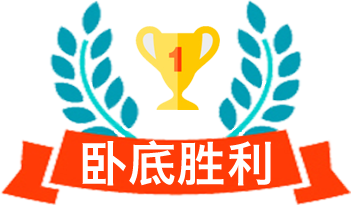
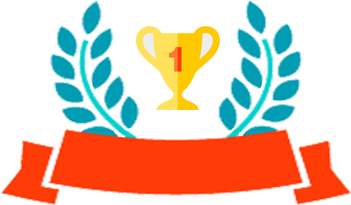
hello

Changed region(s): [[0.2279, 0.6732, 0.7692, 0.9073]]

diff --git a/js-task4/js/main.js b/js-task4/js/main.js
@@ -47,33 +47,6 @@ $(document).ready(function () {
 });
 
 
-///////////////////////////////////////////////////////法官日志页jQuery ////////////////////////////////////////////////
-
-$(document).ready(function () {
-    var arr2 = JSON.parse(localStorage.getItem("user"));     //取出数据
-    for (var i = 0; i < arr2.length; i++) {
-        $(".identity").append("<div class=\"identity-main\">\n" +
-            "<div class=\"card\">\n" +
-            "<div class=\"farmer\">"+ arr2[i] +"</div>\n" +
-            "<div class=\"number\">" + (i + 1) + "号</div>\n" +
-            "</div>\n" +
-            "<div class=\"killKnife\"><img src=\"../picture/knife.png\"></div>\n" +
-            "</div>");
-            // .append("<div class=\"card\">\n" +
-            //     "<div class=\"farmer\">" + arr2[i] +
-            //     "</div>\n" + "<div class=\"number\">" + (i + 1) + "号</div>\n" + "</div>");
-    }
-
-});
-$(document).ready(function () {
-    $("#judge-seeing").click(function () {
-        location.href = 'player-ratio.html';
-    });
-    $("#begin").click(function () {
-        location.href = 'judge-diary.html';
-    })
-});
-
 /////////////////////////////////////////////////////玩家配比页面原生js/////////////////////////////////////////////////
 
 //获取 input 值
@@ -90,6 +63,7 @@ document.getElementById("setPlayer").onclick = function () {
     }
 };
 document.getElementsByClassName("bottom_btn")[0].onclick = function () {
+    var li = document.getElementsByTagName("li");
     var num = valueNumber.value;
     var write1 = document.getElementById("write1").value;       //选择水民词组输入框
     var write2 = document.getElementById("write2").value;       //选择杀手词组输入框
@@ -100,8 +74,8 @@ document.getElementsByClassName("bottom_btn")[0].onclick = function () {
     var hello = document.getElementById("player").innerHTML;
     if (isNaN(num) || num < 6 || num > 18) {
         alert("请输入6-18的数字");                                     //验证数字
-    } else if (hello == false) {     //使用 布尔值 判断 是否有内容
-        alert("请设置玩家数量");
+    } else if (hello == false || num != li.length ) {     //使用 布尔值 判断 是否有内容
+        alert("请点击设置玩家数量");
     } else {
         location.href = 'turnover.html';//跳转
     }
@@ -247,6 +221,7 @@ function setPlayer() {
     localStorage.setItem('arr4',JSON.stringify(arr4));//用来保存被杀死玩家
     var arr7 = [];
     localStorage.setItem('arr7',JSON.stringify(arr7)); //用来保存被投死玩家
+    sessionStorage.setItem('x',1234)
 }
 
 

diff --git a/js-task4/js/judge-seeing.js b/js-task4/js/judge-seeing.js
@@ -1,0 +1,41 @@
+
+///////////////////////////////////////////////////////法官日志页jQuery ////////////////////////////////////////////////
+
+$(document).ready(function () {
+    var arr2 = JSON.parse(localStorage.getItem("user"));     //取出数据
+    for (var i = 0; i < arr2.length; i++) {
+        $(".identity").append("<div class=\"identity-main\">\n" +
+            "<div class=\"card\">\n" +
+            "<div class=\"farmer\">"+ arr2[i] +"</div>\n" +
+            "<div class=\"number\">" + (i + 1) + "号</div>\n" +
+            "</div>\n" +
+            "<div class=\"killKnife\"><img src=\"../picture/knife.png\"></div>\n" +
+            "</div>");
+        // .append("<div class=\"card\">\n" +
+        //     "<div class=\"farmer\">" + arr2[i] +
+        //     "</div>\n" + "<div class=\"number\">" + (i + 1) + "号</div>\n" + "</div>");
+    }
+
+});
+$(document).ready(function () {
+    $("#judge-seeing").click(function () {
+        location.href = 'player-ratio.html';
+    });
+    $("#begin").click(function () {
+        location.href = 'judge-diary.html';
+    });
+
+    var died2 = localStorage.getItem('died2');                //使用变量保存在localStorage中的死亡状态 Died
+    var arr3 = JSON.parse(localStorage.getItem('arr3'));//保存杀人步骤死亡玩家，避免加载页面时从新清空保存在localStorage里的数组
+    if(died2 === 'died'){
+        for(var i=0;i<arr3.length;i++){
+            $( $('.card')[arr3[i]])
+                .addClass('b')      //如果玩家状态为 died 玩家改变玩家颜色
+                .off('click')       //移除被杀玩家点击事件
+                .next().off('click')
+        }
+    }
+    if(died2 === 'died'){
+        $("#begin").text("返回游戏");
+    }
+});

diff --git a/js-task4/js/result.js b/js-task4/js/result.js
@@ -3,13 +3,13 @@
 //
 //
 var arr3 = JSON.parse(localStorage.getItem('arr3'));//保存杀人步骤死亡玩家的顺序，避免加载页面时从新清空保存在localStorage里的数组
-var arr5 = JSON.parse(localStorage.getItem('arr5'));        // 保存在main.js页面
-var arr6 = JSON.parse(localStorage.getItem('arr6'));        // 保存在main.js页面
+var arr5 = JSON.parse(localStorage.getItem('arr5'));        // 杀手长度
+var arr6 = JSON.parse(localStorage.getItem('arr6'));        // 平民长度
 var condition = JSON.parse(localStorage.getItem('condition'));      //用localStorage 以JSON 格式保存 数组
 var arr4 = JSON.parse(localStorage.getItem('arr4'));        //用来保存被杀死玩家condition对象
 var arr7 = JSON.parse(localStorage.getItem('arr7'));         //保存被投死玩家condition对象
-var killer = JSON.parse(localStorage.getItem('killer'));         //保存被投死玩家condition对象
-var civilian = JSON.parse(localStorage.getItem('civilian'));         //保存被投死玩家condition对象
+var killer = JSON.parse(localStorage.getItem('killer'));         //杀手
+var civilian = JSON.parse(localStorage.getItem('civilian'));     //平民
 var v1 = localStorage.getItem("v1");  //获取平民词组传过来的值
 var v2 = localStorage.getItem("v2"); //获取杀手词组传过来的值
 // var killer = localStorage.getItem("killer");  //获取平民词组传过来的值
@@ -55,4 +55,10 @@ $(document).ready(function () {
     $("#man").text(civilian.length);
     $("#v1").text(v1);
     $("#v2").text(v2);
+    if(arr5.length === arr6.length){
+        $(".imgWord").text("杀手胜利");
+    }else if (arr5.length === 0 ){
+        $(".imgWord").text("平民胜利");
+    }
+
 });

diff --git a/js-task4/js/judge-diary.js b/js-task4/js/judge-diary.js
@@ -60,14 +60,17 @@ $(document).ready(function () {
    });
 
     $('#kill').click(function () {
+        fsm.goto('none');
         fsm.kill();                                         //触发AfterKill事件
         console.log(fsm.state);
 
     });
-    $('#lastWords').click(function () {
-
+    var stateDie = localStorage.getItem('stateDie');                      //死亡状态
+    if(stateDie === "die"){
         fsm.goto('die');
+    }
 
+    $('#lastWords').click(function () {
         console.log(fsm.state);
         if((fsm.state === 'die') || (fsm.state === 'lastSpeak' ) ||  (fsm.state === 'discuss' ) ){
               false;

diff --git a/js-task4/css/judge-seeing.less b/js-task4/css/judge-seeing.less
@@ -53,6 +53,9 @@ main {
         border: white solid 5px;
         background-color: #f5c97b;
       }
+      .b{
+        background-color: #77623C;
+      }
       .farmer {
         text-align: center;
         line-height: 1rem;
@@ -64,6 +67,7 @@ main {
         font-size: .22rem;
         background: rgba(131, 176, 154, .5);
       }
+
       .killKnife{
         opacity: 0;
       }

diff --git a/js-task4/css/result.less b/js-task4/css/result.less
@@ -65,14 +65,20 @@ body {
 }
 
 .victory {
+  position: relative;
   text-align: center;
   padding: .23rem;
+  .imgWord{
+    position: absolute;
+    top: 62%;
+    left: 38%;
+    font-size: .4rem;
+    color: white;
+  }
+  img {
+    max-width: 3rem;
+  }
 }
-
-.victory img {
-  max-width: 3rem;
-}
-
 .middle1 {
   padding: 0 12% .6rem 12%;
   color: #ffc865;

diff --git a/js-task4/css/result.css b/js-task4/css/result.css
@@ -51,8 +51,16 @@ body {
   background-color: #29bde0;
 }
 .victory {
+  position: relative;
   text-align: center;
   padding: .23rem;
+}
+.victory .imgWord {
+  position: absolute;
+  top: 62%;
+  left: 38%;
+  font-size: .4rem;
+  color: white;
 }
 .victory img {
   max-width: 3rem;

diff --git a/js-task4/css/judge-seeing.css b/js-task4/css/judge-seeing.css
@@ -51,6 +51,9 @@ main .identity .identity-main .card {
   border: white solid 5px;
   background-color: #f5c97b;
 }
+main .identity .identity-main .b {
+  background-color: #77623C;
+}
 main .identity .identity-main .farmer {
   text-align: center;
   line-height: 1rem;

diff --git a/js-task4/html/judge-seeing.html b/js-task4/html/judge-seeing.html
@@ -35,7 +35,7 @@
 <footer>
         <button id="begin" type="button" class="foot">开始游戏</button>
 </footer>
-<script src="../js/main.js"></script>
+<script src="../js/judge-seeing.js"></script>
 <!--<script src="../js/jq.js"></script>-->
 </body>
 </html>

diff --git a/js-task4/html/result.html b/js-task4/html/result.html
@@ -33,6 +33,7 @@
 <main>
     <div class="container content">
         <div class="row victory">
+            <div class="imgWord">杀手胜利</div>
             <img src="../picture/victory.png">
         </div>
         <div class="row">

diff --git a/js-task4/css/vote.css b/js-task4/css/vote.css
@@ -89,6 +89,9 @@ audio {
   border: white solid 5px;
   background-color: #f5c97b;
 }
+.b {
+  background-color: #77623C;
+}
 .farmer {
   text-align: center;
   line-height: 1rem;

diff --git a/js-task4/css/vote.less b/js-task4/css/vote.less
@@ -84,6 +84,9 @@ audio{
   border: white solid 5px;
   background-color: #f5c97b;
 }
+.b{
+  background-color: #77623C;
+}
 .farmer{
   text-align: center;
   line-height:1rem;
